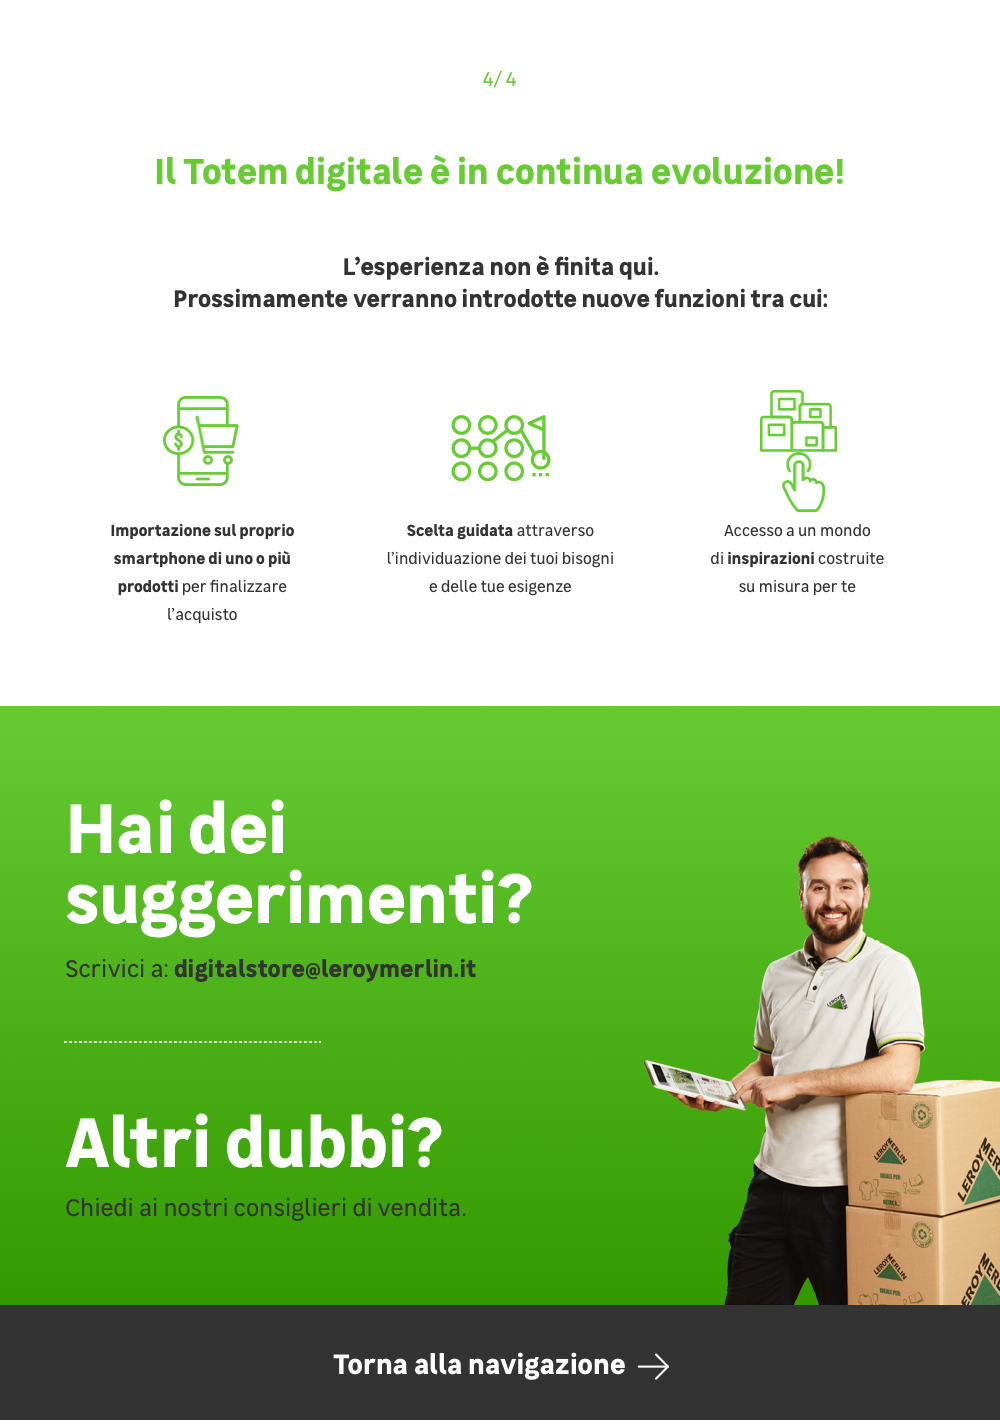
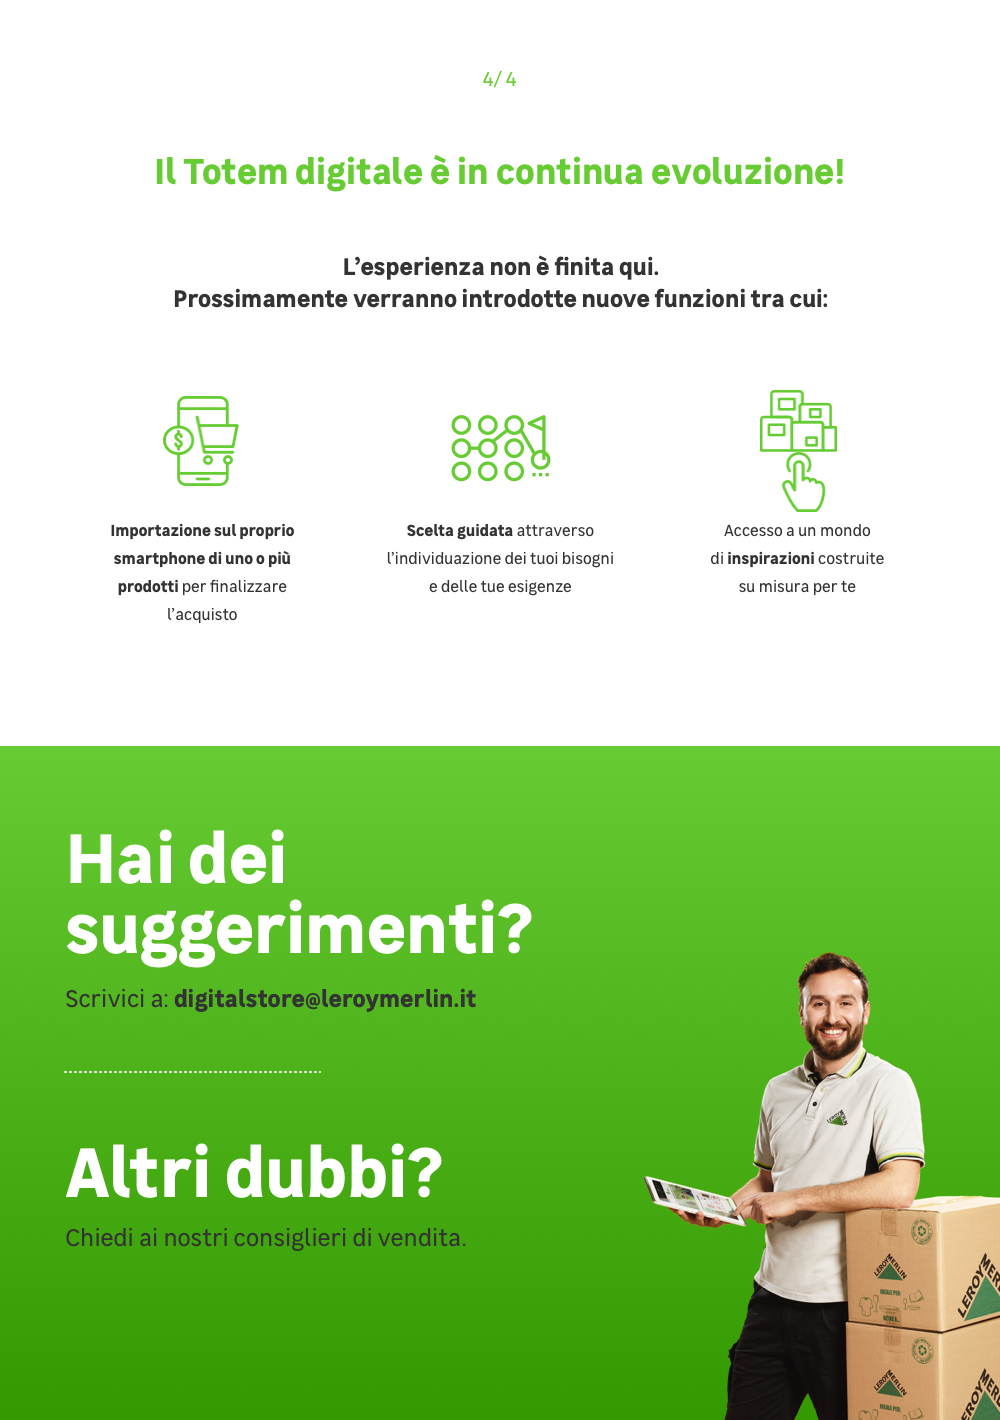
add back buttom to tutorial4 slide

Changed region(s): [[0.0, 0.5887, 1.0, 1.0], [0.062, 0.5577, 0.527, 0.7127], [0.0, 0.4958, 1.0, 0.5268]]

diff --git a/app/components/TutorialButton.js b/app/components/TutorialButton.js
@@ -1,9 +1,9 @@
 import React, { Component } from 'react';
 import PropTypes from 'prop-types';
-import Dialog from 'material-ui/Dialog';
+import { Dialog, RaisedButton } from 'material-ui';
+import ArrowForward from 'material-ui/svg-icons/navigation/arrow-forward';
 import Slick from 'react-slick';
 import glamorous, { Div } from 'glamorous';
-
 import CloseButton from './CloseButton';
 
 const Slide = glamorous.div({
@@ -27,6 +27,14 @@ const contentStyle = {
   height: 1420
 };
 const bodyStyle = { padding: 0, background: 'transparent' };
+
+const BackButton = glamorous.div({
+  position: 'relative',
+  width: '982px',
+  right: '35px',
+  bottom: '99px',
+  height: '100px'
+});
 
 class TutorialButton extends Component {
   static propTypes = {
@@ -62,7 +70,7 @@ class TutorialButton extends Component {
     /* eslint-disable */
     const settings = this.getSlickSettings();
     return (
-      <Div onClick={this.openDialog}>
+      <Div id="Carousel" onClick={this.openDialog}>
         {this.props.children}
         <Dialog
           modal={false}
@@ -93,6 +101,18 @@ class TutorialButton extends Component {
               <Slide>
                 <Img src={require('../assets/tutorial/tutorial4.png')} alt="tutorial 4" />
               </Slide>
+              <BackButton id="BackButton">
+                <RaisedButton
+                  label="Torna alla navigazione"
+                  fullWidth={true}
+                  style={{ height: '100%' }}
+                  backgroundColor={'#333333'}
+                  labelColor={'white'}
+                  labelPosition="before"
+                  icon={<ArrowForward />}
+                  onTouchTap={this.closeDialog}
+                />
+              </BackButton>
             </div>
           </Slick>
         </Dialog>
